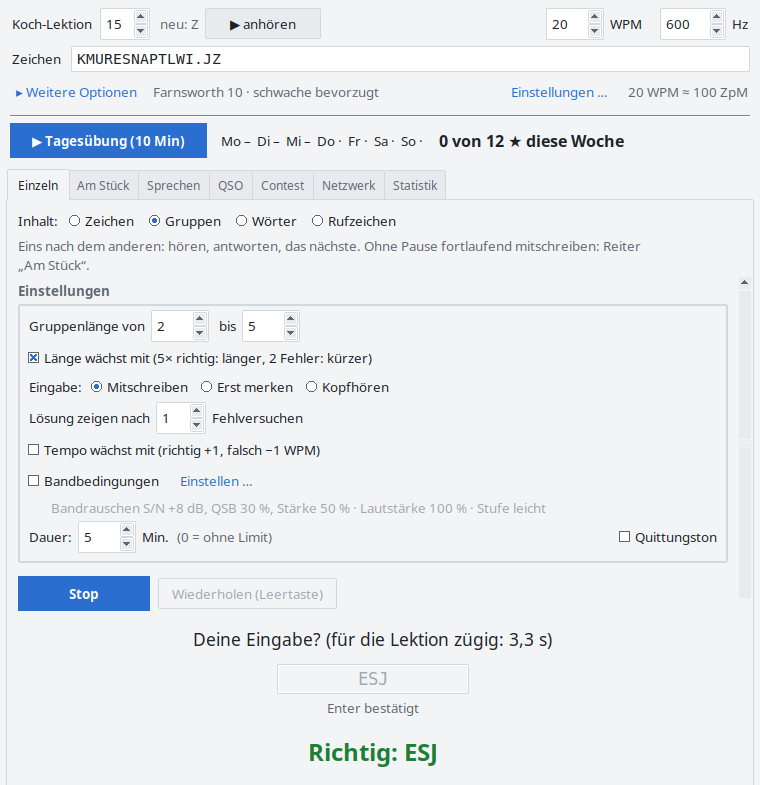
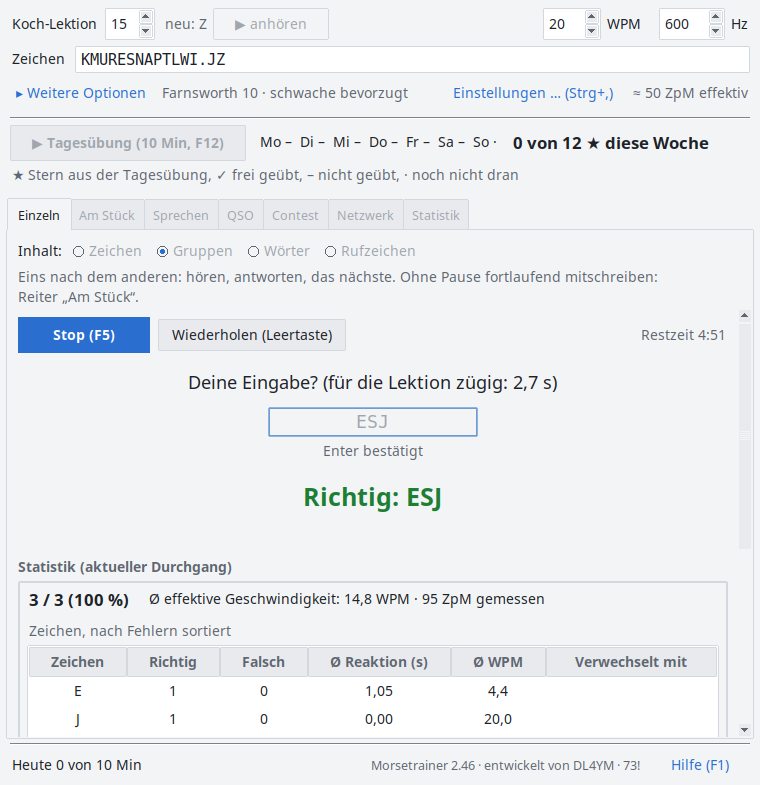
Hilfe mit F1, sichereres Sprungziel, Sprache aus der Umgebung nicht speichern, Doku und Bild aktualisiert
- F1 öffnet die Hilfe beim aktuellen Reiter (im Contest bleibt F1 CQ),
  auf dem Mac zusätzlich Cmd+Umschalt+H; Knopf „Hilfe (F1)“
- Sprungziel: erst genauer Name, dann Kapitel, dann Unterabschnitt
- MORSETRAINER_LANG überschreibt die gespeicherte Sprache nicht mehr
- main.py --help: --join PIN statt ADRESSE
- Anleitung: Hinweis bei fehlendem FUSE für das AppImage
- docs/bilder/gruppen.png neu aufgenommen

diff --git a/morsetrainer/app.py b/morsetrainer/app.py
@@ -68,6 +68,9 @@ FOCUS_OWNS_KEYS = (ttk.Button, ttk.Checkbutton, ttk.Radiobutton, ttk.Notebook, t
 # Sprachansage an/aus und „wo bin ich?“ (widgets/announcer.py).
 ANNOUNCE_KEY = "F9"
 STATUS_KEY = "F11"
+# Hilfe beim aktuellen Reiter; im Contest sendet F1 CQ wie in
+# Contest-Programmen, dort bleibt der Knopf.
+HELP_KEY = "F1"
 # Zeichen je Zeile in der Übersicht der Lernkartei-Fächer (Reiter Statistik).
 BOX_CHARS_PER_LINE = 20
 # So viele Verwechslungspaare (die häufigsten) übt "Diese Verwechslungen üben".
@@ -220,13 +223,17 @@ class MorseTrainerApp:
         selbst (ohne ::tk::mac::Quit beendet Tk ohne on_close, also ohne zu
         speichern). F9, F11 und F12 sind dort Medientasten bzw. vom System
         belegt (Fn+F11 zeigt den Schreibtisch): zusätzlich Cmd+Umschalt+A
-        (Ansage), W (wo bin ich) und T (Tagesübung)."""
+        (Ansage), W (wo bin ich), T (Tagesübung) und H (Hilfe)."""
         self.root.createcommand("::tk::mac::Quit", self.on_close)
         self.root.createcommand("::tk::mac::ShowPreferences", self.open_settings)
         for letter, action in (("A", self.toggle_announce), ("W", self.read_status),
-                               ("T", self._start_daily)):
+                               ("T", self._start_daily), ("H", self.open_help)):
             for key in (letter, letter.lower()):
                 self.root.bind_all(f"<Command-Shift-{key}>", lambda e, a=action: a() or "break")
+
+    def open_help(self):
+        """Hilfe beim Abschnitt des aktuellen Reiters (Knopf, F1)."""
+        HelpWindow.show(self.root, self.notebook.tab("current", "text"))
 
     def _set_icon(self):
         """Fenstericon, auch für das Hilfefenster (default=True). Fehlt die
@@ -279,7 +286,7 @@ class MorseTrainerApp:
             "geometry": self.root.geometry(),
             "shared": self._shared_settings(),
             "modes": self._mode_settings(),
-            i18n.SETTING_KEY: self.language_var.get(),
+            i18n.SETTING_KEY: self.language_var.get() if self.language_chosen else i18n.STORED,
             "update_declined": self.update_declined,
             "update_declined_on": self.update_declined_on.isoformat() if self.update_declined_on else None,
             "one_by_one": self.one_by_one_var.get(),
@@ -457,6 +464,7 @@ class MorseTrainerApp:
         language = ttk.Frame(language_card)
         language.pack(fill="x", pady=2)
         self.language_var = tk.StringVar(value=i18n.LANG)
+        self.language_chosen = False
         self.language_box = ttk.Combobox(language, values=list(i18n.LANGUAGES.values()), state="readonly",
                                          width=10)
         self.language_box.set(i18n.LANGUAGES[i18n.LANG])
@@ -550,6 +558,7 @@ class MorseTrainerApp:
         dem nächsten Start, siehe i18n.py."""
         chosen = next(k for k, v in i18n.LANGUAGES.items() if v == self.language_box.get())
         self.language_var.set(chosen)
+        self.language_chosen = True
         self.language_hint_var.set("" if chosen == i18n.LANG else tr("wirkt nach Neustart des Programms"))
         self._show_restart_button()
 
@@ -984,8 +993,7 @@ class MorseTrainerApp:
         # Erst sichtbar, wenn ein neueres Release da ist: holt das Update-Fenster wieder.
         self.update_button = ttk.Button(update_box, text=tr("Aktualisieren …"), style="Flat.TButton",
                                         command=self.offer_update)
-        ttk.Button(footer, text=tr("Hilfe"), style="Flat.TButton",
-                   command=lambda: HelpWindow.show(self.root, self.notebook.tab("current", "text"))).pack(
+        ttk.Button(footer, text=tr("Hilfe (F1)"), style="Flat.TButton", command=self.open_help).pack(
             side="right", padx=(8, 0))
         ttk.Label(
             footer, text=tr("Morsetrainer {version} · entwickelt von {author} · 73!").format(
@@ -1653,7 +1661,7 @@ class MorseTrainerApp:
         """Jede Taste im Hauptfenster: Tagesübung (Esc, F5, Enter), Ansage (F9, F11),
         Tagesübung starten (F12), Funktionstasten an den aktiven Reiter, sonst
         an dessen on_key – außer die Taste gehört einem Eingabefeld oder dem
-        Bedienelement mit dem Fokus."""
+        Bedienelement mit dem Fokus. F1 öffnet die Hilfe, außer im Contest."""
         if event.keysym in ("Escape", "F5") and self.daily.active:
             self._confirm_daily_end(event.keysym)
             return
@@ -1667,6 +1675,9 @@ class MorseTrainerApp:
             self.read_status()
             return
         if event.keysym == DAILY_KEY and self._start_daily():
+            return
+        if event.keysym == HELP_KEY and not getattr(self._active_mode(), "claims_help_key", False):
+            self.open_help()
             return
         if event.keysym in FUNCTION_KEYS:
             mode = self._active_mode()

diff --git a/morsetrainer/widgets/help_window.py b/morsetrainer/widgets/help_window.py
@@ -203,6 +203,27 @@ def setup_tags(widget: tk.Text) -> None:
     widget.tag_configure("p", spacing1=2)
 
 
+def find_heading(headings, topic: str):
+    """Index der Überschrift für `topic` in `headings` (Liste aus Ebene „h2“
+    oder „h3“ und Text, in Reihenfolge der Anleitung), sonst None.
+
+    Zuerst zählt der genaue Name, ohne Kapitelnummer („Am Stück“), dann
+    ein Kapitel, das so beginnt („Netzwerk“ → „7. Netzwerk: Üben in der
+    Gruppe“), zuletzt ein Unterabschnitt, der so beginnt. So fängt ein
+    Unterabschnitt wie „Network and security“ den Sprung zum Kapitel
+    „7. Network: …“ nicht ab."""
+    wanted = topic.strip().lower()
+    plain = [re.sub(r"^\d+\.\s*", "", heading.strip().lower()) for _, heading in headings]
+    tests = (lambda i: plain[i] == wanted,
+             lambda i: headings[i][0] == "h2" and plain[i].startswith(wanted),
+             lambda i: headings[i][0] == "h3" and plain[i].startswith(wanted))
+    for test in tests:
+        for index in range(len(headings)):
+            if test(index):
+                return index
+    return None
+
+
 class HelpWindow:
     """Ein Fenster je Hauptfenster; ein zweiter Aufruf holt es nach vorn."""
 
@@ -289,14 +310,14 @@ class HelpWindow:
         if not topic:
             return
         text = self.texts[GUIDE]
-        wanted = topic.strip().lower()
-        for tag in ("h3", "h2"):
+        headings = []
+        for tag in ("h2", "h3"):
             ranges = text.tag_ranges(tag)
-            for start, end in zip(ranges[::2], ranges[1::2]):
-                heading = text.get(start, end).strip().lower()
-                if heading == wanted or re.sub(r"^\d+\.\s*", "", heading).startswith(wanted):
-                    text.yview(start)
-                    return
+            headings += [(tag, start, text.get(start, end)) for start, end in zip(ranges[::2], ranges[1::2])]
+        headings.sort(key=lambda item: tuple(int(n) for n in text.index(item[1]).split(".")))
+        found = find_heading([(tag, heading) for tag, _, heading in headings], topic)
+        if found is not None:
+            text.yview(headings[found][1])
 
     def _current_text(self) -> tk.Text:
         return self.texts[DOCS[self.notebook.index("current")][1]]

diff --git a/tests/test_i18n.py b/tests/test_i18n.py
@@ -95,6 +95,7 @@ class LanguageSettingTest(unittest.TestCase):
             self.assertEqual(i18n._configured(), "de")
             os.environ["MORSETRAINER_LANG"] = "en"
             self.assertEqual(i18n._configured(), "en")
+            self.assertEqual(i18n._stored(), "de")
 
     def test_numbers_use_the_separators_of_the_language(self):
         self.assertEqual((i18n.number(12345), i18n.number(0.38, 2)), ("12.345", "0,38"))
@@ -159,5 +160,19 @@ class TkLanguageTest(unittest.TestCase):
             app._save_state()
             saved = json.loads((Path(tmp) / "window_state.json").read_text(encoding="utf-8"))
             self.assertEqual(saved["language"], "en")
+            for mode in app.modes:
+                mode.on_close()
+
+    def test_language_from_environment_is_not_saved(self):
+        """Ein Start mit MORSETRAINER_LANG=en ändert die gespeicherte Sprache
+        nicht, solange man in den Einstellungen nichts wählt."""
+        from morsetrainer import app as app_module
+        with tempfile.TemporaryDirectory() as tmp, \
+                mock.patch.object(app_module, "WINDOW_STATE_FILE", Path(tmp) / "window_state.json"), \
+                mock.patch.object(i18n, "STORED", "en"):
+            app = app_module.MorseTrainerApp(self.root)
+            app._save_state()
+            saved = json.loads((Path(tmp) / "window_state.json").read_text(encoding="utf-8"))
+            self.assertEqual(saved["language"], "en")  # nicht LANG="de" aus der Umgebung
             for mode in app.modes:
                 mode.on_close()

diff --git a/tests/test_accessibility.py b/tests/test_accessibility.py
@@ -528,6 +528,20 @@ class AnnouncerTest(AnnouncerCase):
         self.assertTrue(self.pump_until(lambda: "Ansage aus." in self.said))
         self.assertIs(self.app._shared_settings()["announce"], False)
 
+    def test_f1_opens_help_except_in_contest(self):
+        """F1 öffnet die Hilfe beim aktuellen Reiter; im Contest sendet es
+        CQ wie in Contest-Programmen und öffnet keine Hilfe."""
+        from morsetrainer import app as app_module
+        with mock.patch.object(app_module.HelpWindow, "show") as show:
+            self.app._dispatch_key(mock.Mock(keysym="F1", char=""))
+            show.assert_called_once_with(self.app.root, self.app.notebook.tab("current", "text"))
+            self.app.show_mode("Contest")
+            show.reset_mock()
+            with mock.patch.object(self.mode("Contest"), "on_function_key") as contest_key:
+                self.app._dispatch_key(mock.Mock(keysym="F1", char=""))
+            show.assert_not_called()
+            contest_key.assert_called_once_with("F1")
+
     def test_f11_reads_tab_and_status_even_when_off(self):
         self.app._dispatch_key(mock.Mock(keysym="F11", char=""))
         self.assertTrue(self.pump_until(lambda: self.said))

diff --git a/morsetrainer/i18n.py b/morsetrainer/i18n.py
@@ -24,16 +24,25 @@ DEFAULT = "de"
 SETTING_KEY = "language"
 
 
-def _configured() -> str:
-    lang = os.environ.get("MORSETRAINER_LANG")
-    if lang is None:
-        try:
-            lang = json.loads((DATA_DIR / "window_state.json").read_text(encoding="utf-8")).get(SETTING_KEY)
-        except (OSError, ValueError, AttributeError):
-            lang = None
+def _stored() -> str:
+    """Die in den Einstellungen gewählte Sprache, ohne MORSETRAINER_LANG."""
+    try:
+        lang = json.loads((DATA_DIR / "window_state.json").read_text(encoding="utf-8")).get(SETTING_KEY)
+    except (OSError, ValueError, AttributeError):
+        lang = None
     return lang if lang in LANGUAGES else DEFAULT
 
 
+def _configured() -> str:
+    lang = os.environ.get("MORSETRAINER_LANG")
+    if lang is None:
+        return _stored()
+    return lang if lang in LANGUAGES else DEFAULT
+
+
+# STORED wird beim Beenden wieder gespeichert, solange niemand eine Sprache
+# wählt: Ein Start mit MORSETRAINER_LANG soll die Einstellung nicht ändern.
+STORED = _stored()
 LANG = _configured()
 
 if LANG == "en":

diff --git a/tests/test_modes.py b/tests/test_modes.py
@@ -1068,6 +1068,18 @@ class HelpWindowTest(AppTestCase):
         images = help_window.parse('Text\n\n![Bild](a.png)\n\n<img src="b.png" width="640" alt="x">\n')
         self.assertEqual([b for b in images if b[0] != "gap"], [("p", "Text")])
 
+    def test_heading_for_topic(self):
+        """Erst der genaue Name, dann ein Kapitel, das so beginnt, zuletzt ein
+        Unterabschnitt: „Network and security“ fängt „Network“ nicht ab."""
+        from morsetrainer.widgets import help_window
+        headings = [("h2", "3. Tabs"), ("h3", "Single"), ("h3", "Network and security"),
+                    ("h2", "7. Network: practising as a group"), ("h3", "Statistics")]
+        find = help_window.find_heading
+        self.assertEqual(find(headings, "Single"), 1)
+        self.assertEqual(find(headings, "Network"), 3)
+        self.assertEqual(find(headings, "Stat"), 4)
+        self.assertIsNone(find(headings, "Contest"))
+
     def test_help_shows_changelog_and_readme(self):
         from morsetrainer.widgets import help_window
         help_window.HelpWindow.show(self.root)

diff --git a/morsetrainer/modes/run_mode.py b/morsetrainer/modes/run_mode.py
@@ -197,6 +197,7 @@ class RunModeFrame:
     Funktionstasten, Anrufer melden sich (auch mehrere zugleich), du loggst
     Rufzeichen und Austausch; am Ende zählen Rate und Fehler wie im Contest."""
     uses_band = True  # zentrale Bandbedingungen (widgets/band_settings.py)
+    claims_help_key = True  # F1 sendet CQ, öffnet hier nicht die Hilfe
 
     def __init__(self, parent, charset_var, wpm_var, freq_var, weighted_var, farnsworth_wpm, on_start, on_stop,
                  band_settings=None):

diff --git a/main.py b/main.py
@@ -4,7 +4,8 @@ import sys
 USAGE = """Morsetrainer von DL4YM
 
   python main.py                 Programm starten
-  python main.py --join ADRESSE  einer Netzwerk-Sitzung beitreten
+  python main.py --join PIN      nach einem Update wieder mit dem Trainer
+                                 verbinden (Adresse und Name sind gespeichert)
   python main.py --selftest X.mp3  Selbsttest (Ton, Stimme, MP3) ohne Fenster
   python main.py --version       Version anzeigen"""
 

diff --git a/morsetrainer/i18n_en.py b/morsetrainer/i18n_en.py
@@ -242,7 +242,7 @@ EN.update({
         "and then type them. "
         "That is also where the next lesson is offered.\n\n"
         "Switch to groups?",
-    "Hilfe": "Help",
+    "Hilfe (F1)": "Help (F1)",
     "Morsetrainer {version} · entwickelt von {author} · 73!": "Morsetrainer {version} · developed by {author} · 73!",
     "Heute {minutes} von {goal} Min": "Today {minutes} of {goal} min",
     "Heute {minutes} Min": "Today {minutes} min",

diff --git a/docs/Anleitung.md b/docs/Anleitung.md
@@ -2,9 +2,10 @@
 
 Ein Trainer für Morsetelegrafie (CW) für Einsteiger ohne Vorkenntnisse bis
 zu Contestern (Teilnehmern an Funkwettbewerben), entwickelt von **DL4YM**.
-Diese Anleitung steht auch im Programm: Der Knopf **Hilfe** rechts in der
-Fußzeile zeigt sie gleich beim Abschnitt des Reiters, in dem du gerade bist,
-daneben die Änderungen der Versionen; Strg+F sucht darin.
+Diese Anleitung steht auch im Programm: F1 oder der Knopf **Hilfe (F1)**
+rechts in der Fußzeile zeigt sie gleich beim Abschnitt des Reiters, in dem
+du gerade bist, daneben die Änderungen der Versionen; Strg+F sucht darin.
+Im Reiter Contest sendet F1 CQ, dort öffnet nur der Knopf die Hilfe.
 Einen kurzen Überblick mit Bildern gibt die [README](../README.md).
 
 **Inhalt**
@@ -832,6 +833,7 @@ statt Alt bzw. Strg (Cmd+1, Cmd+B, Cmd+Komma).
 | Überall | Alt+1 … Alt+7 | Reiter Einzeln, Am Stück, Sprechen, QSO, Contest, Netzwerk, Statistik |
 | Überall | Alt+0 | Reiter Statistik |
 | Überall | Strg+Tab | durch die Reiter blättern |
+| Überall außer Contest | F1 | Hilfe beim Abschnitt des aktuellen Reiters |
 | Überall | F9 | Ansage an/aus |
 | Überall | F11 | vorlesen, wo du bist |
 | Überall | F12 | Tagesübung starten |
@@ -860,7 +862,8 @@ statt Alt bzw. Strg (Cmd+1, Cmd+B, Cmd+Komma).
 
 **Auf dem Mac** sind F9, F11 und F12 Medientasten oder vom System belegt
 (Fn+F11 zeigt den Schreibtisch). Dafür gibt es Cmd+Umschalt+A (Ansage
-an/aus), Cmd+Umschalt+W (wo bin ich) und Cmd+Umschalt+T (Tagesübung).
+an/aus), Cmd+Umschalt+W (wo bin ich), Cmd+Umschalt+T (Tagesübung) und
+Cmd+Umschalt+H (Hilfe).
 Cmd+0 bleibt dort der Schrift (normal groß).
 
 **Suchen in der Hilfe** findet auch, was anders geschrieben ist: Umlaute
@@ -878,7 +881,12 @@ Fertige Programme gibt es unter
 wird dafür nicht benötigt.
 
 - **Linux:** `Morsetrainer-x86_64.AppImage` herunterladen, ausführbar
-  machen (`chmod +x Morsetrainer-x86_64.AppImage`) und starten.
+  machen (`chmod +x Morsetrainer-x86_64.AppImage`) und starten. Meldet es
+  beim Start „No suitable fusermount binary found“ oder einen anderen
+  Fehler zu FUSE, fehlt das Programm `fusermount`: Paket `fuse3`
+  installieren (Debian, Ubuntu, Mint: `sudo apt install fuse3`) oder das
+  AppImage ohne FUSE starten:
+  `./Morsetrainer-x86_64.AppImage --appimage-extract-and-run`.
 - **Windows:** `Morsetrainer.exe` herunterladen und starten. Da die Datei
   nicht signiert ist, warnt Windows SmartScreen beim ersten Start
   („Weitere Informationen“ → „Trotzdem ausführen“).

diff --git a/docs/Anleitung.en.md b/docs/Anleitung.en.md
@@ -2,9 +2,10 @@
 
 A Morse code (CW) trainer for everyone from complete beginners to
 contesters (people who take part in radio contests), developed by
-**DL4YM**. This manual is also in the program: the **Help** button on the
-right of the footer shows it, right at the section of the tab you are in,
-next to it the changes of the versions; Ctrl+F searches in it. A short
+**DL4YM**. This manual is also in the program: F1 or the **Help (F1)**
+button on the right of the footer shows it, right at the section of the tab
+you are in, next to it the changes of the versions; Ctrl+F searches in it.
+In the Contest tab F1 sends CQ, so there only the button opens the help. A short
 overview with pictures is in the [README](../README.en.md).
 
 **Language:** the program starts in German. Switch to English with
@@ -814,6 +815,7 @@ Alt or Ctrl (Cmd+1, Cmd+B, Cmd+Comma).
 | Everywhere | Alt+1 … Alt+7 | tabs One by one, Non-stop, Speak, QSO, Contest, Network, Statistics |
 | Everywhere | Alt+0 | Statistics tab |
 | Everywhere | Ctrl+Tab | cycle through the tabs |
+| Everywhere except Contest | F1 | help at the section of the current tab |
 | Everywhere | F9 | announcements on/off |
 | Everywhere | F11 | read out where you are |
 | Everywhere | F12 | start daily practice |
@@ -842,7 +844,8 @@ Alt or Ctrl (Cmd+1, Cmd+B, Cmd+Comma).
 
 **On the Mac** F9, F11 and F12 are media keys or taken by the system
 (Fn+F11 shows the desktop). Use Cmd+Shift+A (announcements on/off),
-Cmd+Shift+W (where am I) and Cmd+Shift+T (daily practice) instead. Cmd+0
+Cmd+Shift+W (where am I), Cmd+Shift+T (daily practice) and Cmd+Shift+H
+(help) instead. Cmd+0
 stays with the font (normal size) there.
 
 **Searching the help** also finds what is written differently: umlaut
@@ -860,7 +863,12 @@ Ready-to-run programs are on the
 Python installation is needed.
 
 - **Linux:** download `Morsetrainer-x86_64.AppImage`, make it executable
-  (`chmod +x Morsetrainer-x86_64.AppImage`) and run it.
+  (`chmod +x Morsetrainer-x86_64.AppImage`) and run it. If it reports
+  “No suitable fusermount binary found” or another FUSE error on start,
+  the `fusermount` program is missing: install the `fuse3` package
+  (Debian, Ubuntu, Mint: `sudo apt install fuse3`) or start the AppImage
+  without FUSE:
+  `./Morsetrainer-x86_64.AppImage --appimage-extract-and-run`.
 - **Windows:** download and run `Morsetrainer.exe`. The file is not signed,
   so Windows SmartScreen warns on first start (“More info” → “Run anyway”).
 

diff --git a/README.en.md b/README.en.md
@@ -41,7 +41,7 @@ interface. German overview: [README.md](README.md).
 
 ### Copying at Koch speed
 
-<img src="docs/bilder/gruppen.png" width="640" alt="Main window (German interface) in the One by one tab with the content Groups. At the top Koch lesson 15, 20 WPM, 600 Hz and Farnsworth 10, below the exercise options, the answer field with ESJ and the feedback “Richtig: ESJ” (correct).">
+<img src="docs/bilder/gruppen.png" width="640" alt="Main window (German interface) in the One by one tab with the content Groups. At the top Koch lesson 15, 20 WPM, 600 Hz and Farnsworth 10. In the middle of a run: the answer field with ESJ, the feedback “Richtig: ESJ” (correct) and below it the statistics of the run, 3 of 3 correct.">
 
 ### Award to print
 
@@ -58,7 +58,9 @@ Ready-to-run programs are on the
 Python installation is needed:
 
 - **Linux:** download `Morsetrainer-x86_64.AppImage`, make it executable
-  (`chmod +x Morsetrainer-x86_64.AppImage`) and run it.
+  (`chmod +x Morsetrainer-x86_64.AppImage`) and run it. If it does not
+  start and reports a FUSE error, see the
+  [manual, section “Linux and Windows”](docs/Anleitung.en.md).
 - **Windows:** download and run `Morsetrainer.exe`. The file is not signed,
   so Windows SmartScreen warns on first start (“More info” → “Run anyway”).
 - **macOS (Apple silicon):** download `Morsetrainer-macOS.zip`, unpack it
@@ -82,8 +84,8 @@ PowerShell and compare with the line in `SHA256SUMS.txt`.
    enter your callsign and name; they appear on the awards.
 
 Everything else is in the [manual](docs/Anleitung.en.md). In the program,
-the **Help** button at the bottom right opens it, right at the section of
-the tab you are in.
+F1 or the **Help (F1)** button at the bottom right opens it, right at the
+section of the tab you are in.
 
 ## Accessibility
 
